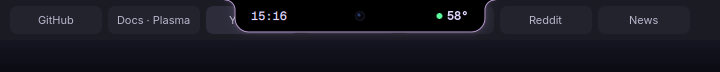
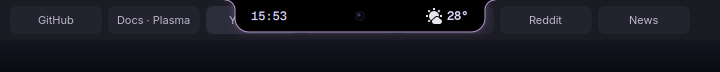
Show weather on the notch instead of CPU temperature
Weather icon + current temperature for a configurable city via Open-Meteo
(no API key). Set it with ./install.sh --city "Name"; without a city the
notch falls back to CPU temperature. Docs, screenshots and GIF updated.

Changed region(s): [[0.5806, 0.1389, 0.6417, 0.3333], [0.3667, 0.1389, 0.3972, 0.2778]]

diff --git a/package/contents/ui/main.qml b/package/contents/ui/main.qml
@@ -3,7 +3,7 @@
  *
  * - Drawn in its own click-through layer-shell overlay: no panel, no border, never blocks the
  *   browser tabs or anything else underneath it.
- * - Collapsed: clock · camera lens · equalizer (music playing) or CPU temp.
+ * - Collapsed: clock · camera lens · equalizer (music playing) or weather (icon + temp; CPU temp if no city set).
  *   Mic in use → orange pulsing mic + app name + glow (event-driven, no polling).
  * - Mouse near it → slides away (browser tabs show). Mouse pushed to the top edge above it
  *   (dwell ~0.6 s) → morphs into a stats card. Hover detection comes from the small
@@ -162,6 +162,69 @@ PlasmoidItem {
     readonly property real v_fan: num(fan)
     readonly property real v_ssdTemp: num(ssdTemp)
     readonly property real v_uptime: num(uptime)
+    // ---------- weather (Open-Meteo: free, no API key) ----------
+    // City from config ("weatherCity"); empty -> notch shows CPU temperature instead.
+    readonly property string weatherCity: Plasmoid.configuration.weatherCity || ""
+    property real wLat: NaN
+    property real wLon: NaN
+    property real weatherTemp: NaN
+    property int weatherCode: -1
+    property bool weatherDay: true
+    readonly property bool weatherOk: weatherCity !== "" && !isNaN(weatherTemp)
+    readonly property string weatherIcon: weatherIconFor(weatherCode, weatherDay)
+    function weatherIconFor(c, day) {
+        if (c < 0) return "";
+        if (c === 0) return day ? "weather-clear" : "weather-clear-night";
+        if (c === 1 || c === 2) return day ? "weather-few-clouds" : "weather-few-clouds-night";
+        if (c === 3) return "weather-overcast";
+        if (c === 45 || c === 48) return "weather-fog";
+        if ((c >= 51 && c <= 57) || c === 61 || c === 80) return "weather-showers-scattered";
+        if ((c >= 62 && c <= 67) || c === 81 || c === 82) return "weather-showers";
+        if ((c >= 71 && c <= 77) || c === 85 || c === 86) return "weather-snow";
+        if (c >= 95) return "weather-storm";
+        return "weather-clouds";
+    }
+    property bool weatherBusy: false        // one request chain at a time
+    function getJson(url, ok) {
+        const x = new XMLHttpRequest();
+        x.onreadystatechange = function () {
+            if (x.readyState !== XMLHttpRequest.DONE) return;
+            weatherBusy = false;
+            let data = null;
+            if (x.status === 200) { try { data = JSON.parse(x.responseText); } catch (e) {} }
+            if (data) ok(data); else weatherRetry.restart();
+        };
+        x.timeout = 15000;
+        x.open("GET", url);
+        x.send();
+    }
+    function refreshWeather() {
+        if (weatherCity === "" || weatherBusy) return;
+        weatherBusy = true;
+        if (isNaN(wLat)) {
+            getJson("https://geocoding-api.open-meteo.com/v1/search?count=1&name=" + encodeURIComponent(weatherCity), function (d) {
+                if (!d.results || !d.results.length) { console.warn("virtual-notch: city not found:", weatherCity); return; }
+                wLat = d.results[0].latitude; wLon = d.results[0].longitude;
+                refreshWeather();
+            });
+            return;
+        }
+        getJson("https://api.open-meteo.com/v1/forecast?current=temperature_2m,weather_code,is_day&latitude=" + wLat + "&longitude=" + wLon, function (d) {
+            if (!d.current) { weatherRetry.restart(); return; }
+            weatherTemp = d.current.temperature_2m;
+            weatherCode = d.current.weather_code;
+            weatherDay = d.current.is_day === 1;
+            console.info("virtual-notch weather:", weatherCity, weatherTemp + "°C", "code", weatherCode, "->", weatherIcon);
+        });
+    }
+    onWeatherCityChanged: { wLat = NaN; wLon = NaN; weatherTemp = NaN; weatherCode = -1; Qt.callLater(refreshWeather); }
+    Timer {   // every 15 min (Open-Meteo updates current conditions every 15 min)
+        interval: 15 * 60 * 1000; repeat: true; triggeredOnStart: true
+        running: root.weatherCity !== ""
+        onTriggered: Qt.callLater(root.refreshWeather)   // callLater merges this with onWeatherCityChanged at startup
+    }
+    Timer { id: weatherRetry; interval: 60 * 1000; onTriggered: root.refreshWeather() }   // offline / after resume
+
     function tempColor(t) { return t >= 80 ? cHot : t >= 62 ? cWarn : cGood; }
     function loadColor(p) { return p >= 85 ? cHot : p >= 60 ? cWarn : cAccent; }
 

diff --git a/package/contents/ui/Island.qml b/package/contents/ui/Island.qml
@@ -113,7 +113,7 @@ Item {
                 }
             }
 
-            // right: mic app / equalizer / cpu temp
+            // right: mic app / equalizer / weather (or CPU temp)
             Item {
                 anchors { right: parent.right; rightMargin: 16; verticalCenter: parent.verticalCenter }
                 width: parent.width / 2 - 26; height: parent.height
@@ -132,10 +132,27 @@ Item {
                     opacity: n.playing && !n.micActive ? 1 : 0
                     Behavior on opacity { NumberAnimation { duration: 200 } }
                 }
+                // weather: icon + temperature for the configured city
                 Row {
                     anchors { right: parent.right; verticalCenter: parent.verticalCenter }
                     spacing: 5
-                    opacity: !n.playing && !n.micActive ? 1 : 0
+                    opacity: !n.playing && !n.micActive && n.weatherOk ? 1 : 0
+                    Behavior on opacity { NumberAnimation { duration: 200 } }
+                    Kirigami.Icon {
+                        anchors.verticalCenter: parent.verticalCenter
+                        width: 16; height: 16
+                        source: n.weatherIcon || ""
+                    }
+                    Text {
+                        text: n.weatherOk ? Math.round(n.weatherTemp) + "°" : ""
+                        color: n.cText; font.family: n.monoFont; font.pixelSize: 12; font.weight: Font.Medium
+                    }
+                }
+                // fallback when no city is set (or weather is unreachable): CPU temperature
+                Row {
+                    anchors { right: parent.right; verticalCenter: parent.verticalCenter }
+                    spacing: 5
+                    opacity: !n.playing && !n.micActive && !n.weatherOk ? 1 : 0
                     Behavior on opacity { NumberAnimation { duration: 200 } }
                     Rectangle { anchors.verticalCenter: parent.verticalCenter; width: 6; height: 6; radius: 3; color: n.tempColor(n.v_cpuTemp) }
                     Text {

diff --git a/tools/demo.qml b/tools/demo.qml
@@ -139,6 +139,9 @@ Window {
         readonly property bool hasBattery: true
         readonly property bool hasFan: true
         readonly property bool hasSsd: true
+        readonly property bool weatherOk: true
+        readonly property real weatherTemp: 28
+        readonly property string weatherIcon: "weather-few-clouds"
         readonly property real v_cpuTemp: 58
         readonly property real v_cpuUse: 23
         readonly property real v_gpuTemp: 47

diff --git a/tools/preview.qml b/tools/preview.qml
@@ -78,6 +78,9 @@ Window {
         readonly property bool hasBattery: true
         readonly property bool hasFan: true
         readonly property bool hasSsd: true
+        readonly property bool weatherOk: true
+        readonly property real weatherTemp: 28
+        readonly property string weatherIcon: "weather-few-clouds"
         readonly property real v_cpuTemp: 58
         readonly property real v_cpuUse: 23
         readonly property real v_gpuTemp: 47

diff --git a/README.md b/README.md
@@ -1,6 +1,6 @@
 # Virtual Notch for KDE Plasma 6
 
-A MacBook-style notch that sits at the top center of your screen on **KDE Plasma 6 (Wayland)**. It shows when your microphone is in use and what music is playing, and it opens a small card with temperatures and system stats.
+A MacBook-style notch that sits at the top center of your screen on **KDE Plasma 6 (Wayland)**. It shows the weather in your city, when your microphone is in use and what music is playing, and it opens a small card with temperatures and system stats.
 
 <p align="center"><img src="docs/demo.gif" alt="Virtual Notch demo: it slides away for the browser tab underneath, opens a stats card from the top edge, and turns orange when the mic is in use" width="720"></p>
 
@@ -8,7 +8,7 @@ It never gets in your way. Clicks go straight through it, and it **slides out of
 
 | | |
 |---|---|
-| **Idle:** clock + CPU temperature | ![idle](docs/screenshots/notch-idle.png) |
+| **Idle:** clock + weather icon and temperature for your city | ![idle](docs/screenshots/notch-idle.png) |
 | **Music playing:** live equalizer, pink rim | ![music](docs/screenshots/notch-music.png) |
 | **Mic in use:** pulsing orange mic + app name | ![mic](docs/screenshots/notch-mic.png) |
 
@@ -20,6 +20,7 @@ It never gets in your way. Clicks go straight through it, and it **slides out of
 
 ## Features
 
+- **Weather.** An icon (sunny, cloudy, rain, storm, fog, snow, with night variants) and the current temperature for your city, from [Open-Meteo](https://open-meteo.com). It's free and needs no API key or account, and it refreshes every 15 minutes. Without a city set, the notch shows your CPU temperature instead.
 - **Mic indicator.** The notch turns orange and shows which app is using your microphone (Discord, OBS, browsers, …). It reacts to PipeWire/PulseAudio events instead of polling.
 - **Now playing.** An equalizer appears while music plays. The card also shows the track, artist and album art from any MPRIS player (Spotify, browsers, VLC, …).
 - **Stats card.** CPU temperature and load, GPU temperature and load, RAM, SSD temperature, battery, fan speed and uptime. Sensors are detected automatically, and rows for sensors your machine lacks are hidden.
@@ -59,11 +60,19 @@ The installer:
 
 It's safe to run again. To **update**, run `git pull && ./install.sh`.
 
+To **show the weather** for your city, pass `--city`. Any city name works; it's looked up automatically.
+
+```bash
+./install.sh --city "Chattogram"
+```
+
+You can change the city by running the same command with a different name. `--city ""` turns weather off, and the notch goes back to showing CPU temperature. Re-running without `--city` keeps your current setting.
+
 ## How to use it
 
 | You do | The notch does |
 |---|---|
-| Nothing | Sits at the top center showing the clock and CPU temperature (or the equalizer while music plays) |
+| Nothing | Sits at the top center showing the clock and the weather (or the equalizer while music plays) |
 | Move the mouse close to it | Slides up out of the way, so you can see and click what's underneath |
 | Push the mouse against the very top edge above it and hold for about ½ s | Expands into the stats card |
 | Move the mouse off the card | Collapses back |
@@ -105,10 +114,15 @@ tools/          offscreen renderers for the screenshots and the demo GIF
 - **Colors and size.** These are the `c*` properties and `notchW`, `notchH` and `cardW` near the top of `package/contents/ui/main.qml`. If you change the size, update `NOTCH_W`, `NOTCH_H`, `CARD_W` and `CARD_H` in `kwin-script/contents/code/main.js` to match. Run `./install.sh` afterwards.
 - **Apps ignored by the mic indicator.** Edit `ignoreRe` in `main.qml`. It already ignores EasyEffects, cava, pavucontrol and similar tools.
 
+## Privacy
+
+The notch makes no network requests unless you set a city. When you do, it sends the city name to Open-Meteo's geocoding service once to get its coordinates. After that it requests the weather for those coordinates every 15 minutes. Nothing else leaves your machine.
+
 ## Troubleshooting
 
 - **The notch doesn't appear.** Make sure you're on a Wayland session (`echo $XDG_SESSION_TYPE`). Then restart Plasma with `systemctl --user restart plasma-plasmashell` and check for errors with `journalctl --user -b | grep -i virtualnotch`.
 - **The notch doesn't move away or the card won't open.** Check that the KWin helper is enabled under *System Settings → Window Management → KWin Scripts → Virtual Notch hover*.
+- **No weather showing.** Check `journalctl --user -b | grep virtual-notch`. A "city not found" message means the name wasn't recognized, so try the English spelling or add the country (`--city "Paris, France"`). The notch retries every minute while you're offline.
 - **"Your widgets are locked".** Right-click the desktop, choose *Unlock Widgets*, and re-run the installer.
 
 **Known limitation:** the notch is designed for a single screen and appears on the primary display.
